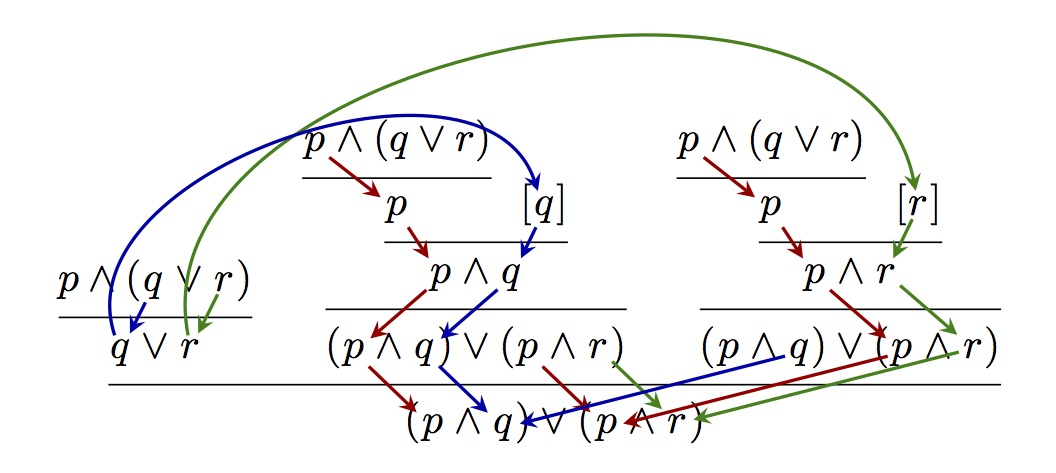
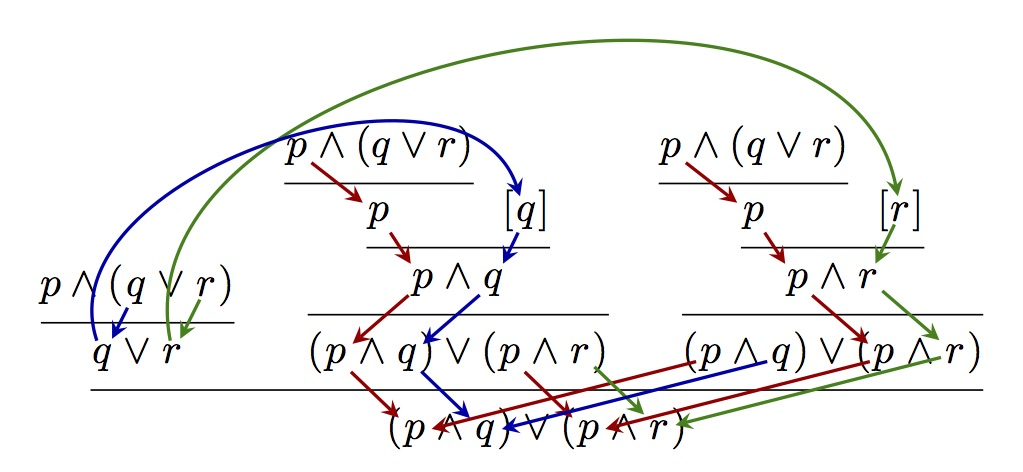
fix p link in flow graph

Changed region(s): [[0.0303, 0.0593, 0.9697, 0.9492]]

diff --git a/index.html b/index.html
@@ -1,7 +1,7 @@
 <!DOCTYPE html>
 <html>
 <head>
-	<meta name="generator" content="Hugo 0.25" />
+	<meta name="generator" content="Hugo 0.25.1" />
     <link href="http://gmpg.org/xfn/11" rel="profile">
     <meta http-equiv="content-type" content="text/html; charset=utf-8">
 	<meta name="viewport" content="width=device-width, initial-scale=1.0" />
